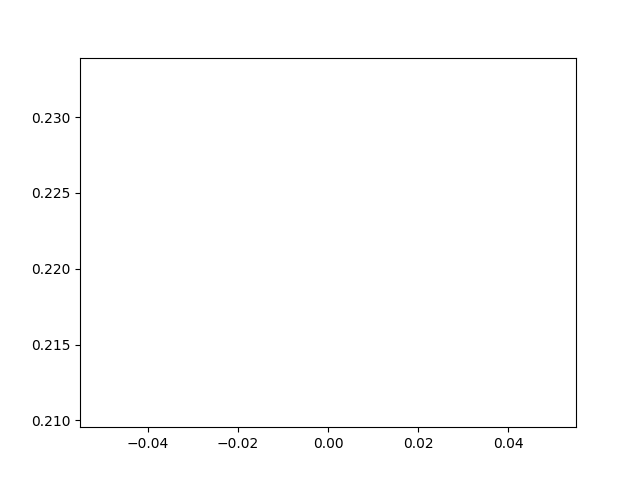
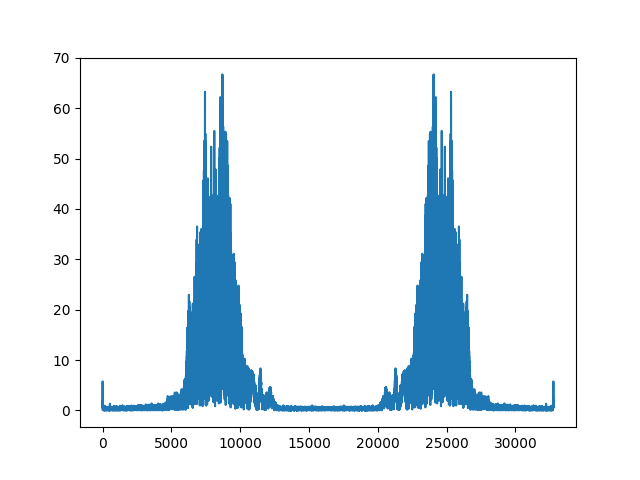
fixed plots

diff --git a/synth/plot.py b/synth/plot.py
@@ -1,8 +1,7 @@
 from matplotlib import pyplot as plt
 
 with open('../out.txt','r') as f:
-  data=[]
-  data.append(float(f.readline()))
+  data=[float(line[:-1]) for line in f.readlines()]
   plt.plot(data)
 
   plt.savefig('plot.png')
